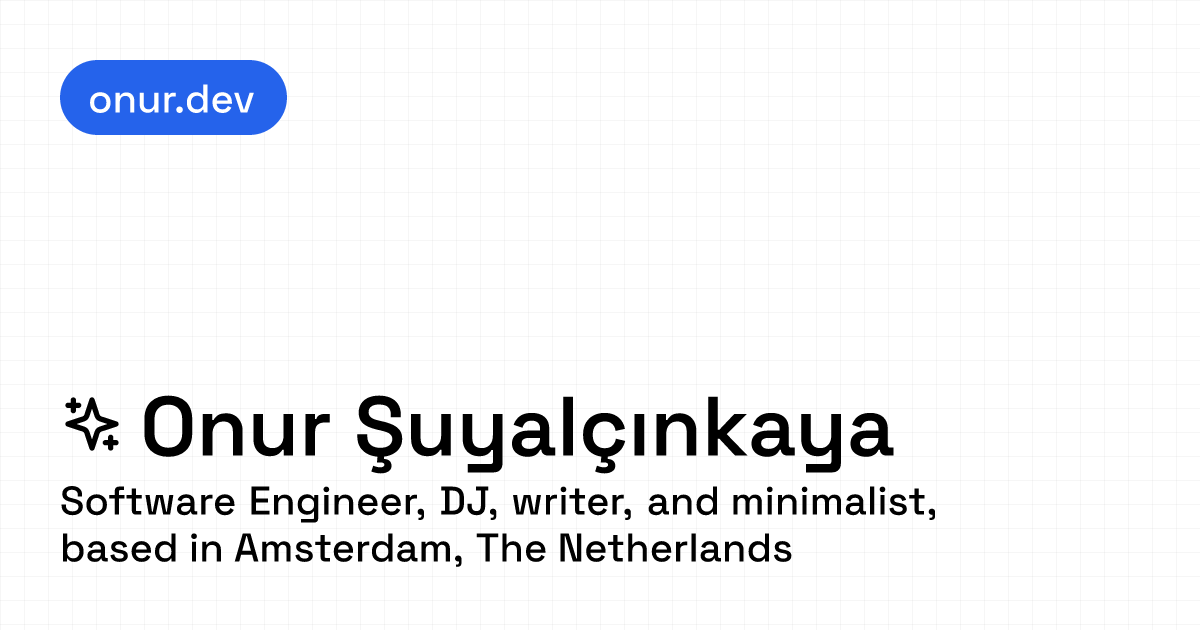
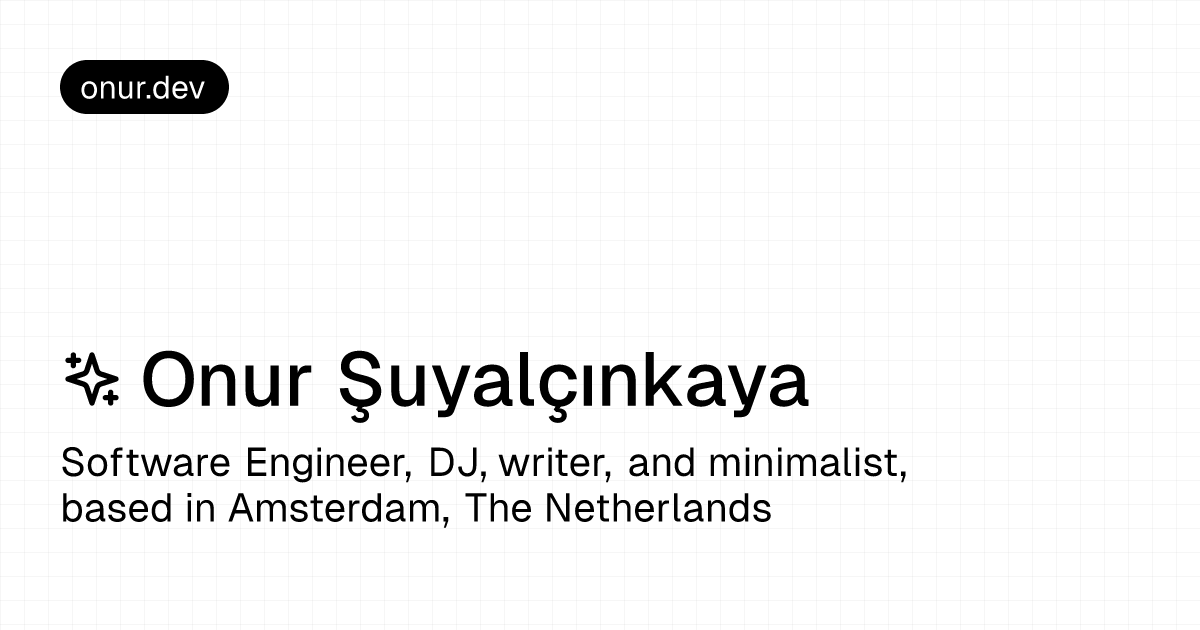
chore: update readme (#98)

Changed region(s): [[0.0308, 0.5429, 0.7708, 0.9048], [0.0308, 0.0905, 0.2467, 0.2413]]

diff --git a/README.md b/README.md
@@ -12,15 +12,16 @@ and more.
 
 ## Overview
 
-- `/` - Home page.
-- `/[slug]` - Static pre-rendered pages using [Contentful](https://www.contentful.com). (e.g. `/stack`, `/about`)
-- `/writing` - Writing page.
-- `/writing/[slug]` - Static pre-rendered writing pages using [Contentful](https://www.contentful.com).
-- `/journey` - Journey page.
-- `/workspace` - Workspace page.
-- `/bookmarks` - Bookmarks page.
-- `/bookmarks/[id]` - Static pre-rendered bookmarks pages using [Raindrop](https://raindrop.io/).
-- `/api` - API routes.
+- `/` — Home page.
+- `/[slug]` — Static pre-rendered pages using [Contentful](https://www.contentful.com). (e.g. `/stack`)
+- `/writing` — Writing page.
+- `/writing/[slug]` — Static pre-rendered writing pages using [Contentful](https://www.contentful.com).
+- `/journey` — Journey page.
+- `/workspace` — Workspace page.
+- `/bookmarks` — Bookmarks page.
+- `/bookmarks/[slug]` — Static pre-rendered bookmarks pages using [Raindrop](https://raindrop.io/).
+- `/bookmarks.xml` — Bookmarks XML feed.
+- `/api` — API routes.
 
 ## Running Locally
 
@@ -45,7 +46,7 @@ Create a `.env` file similar to [`.env.example`](https://github.com/suyalcinkaya
 
 ## Repo Activity
 
-![Alt](https://repobeats.axiom.co/api/embed/2d43636ebc156829d3e99c6f8c2b68d5aa6ebf93.svg "Repobeats analytics image")
+![Alt](https://repobeats.axiom.co/api/embed/2d43636ebc156829d3e99c6f8c2b68d5aa6ebf93.svg 'Repobeats analytics image')
 
 ## License
 
@@ -54,3 +55,10 @@ Create a `.env` file similar to [`.env.example`](https://github.com/suyalcinkaya
 3. Crediting the author is appreciated.
 
 No complicated licensing. Be kind and help others learn.
+
+> You can use the same license with: https://github.com/superkhau/lice
+
+```bash
+npm install -g lice
+lice -l onur_dev
+```
